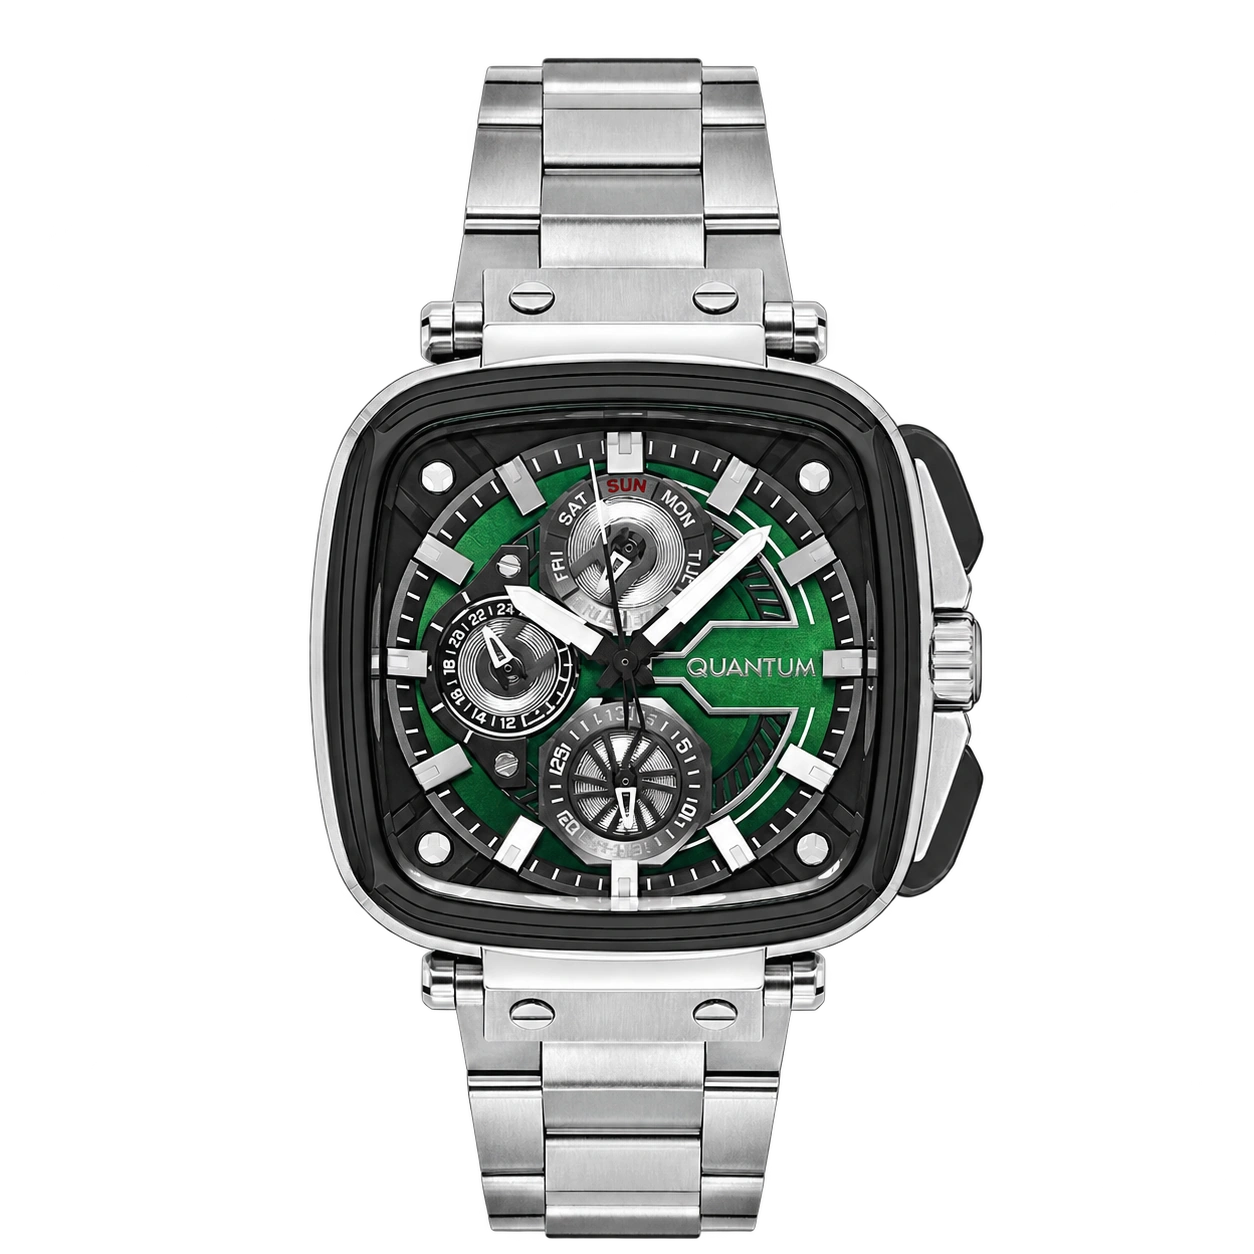
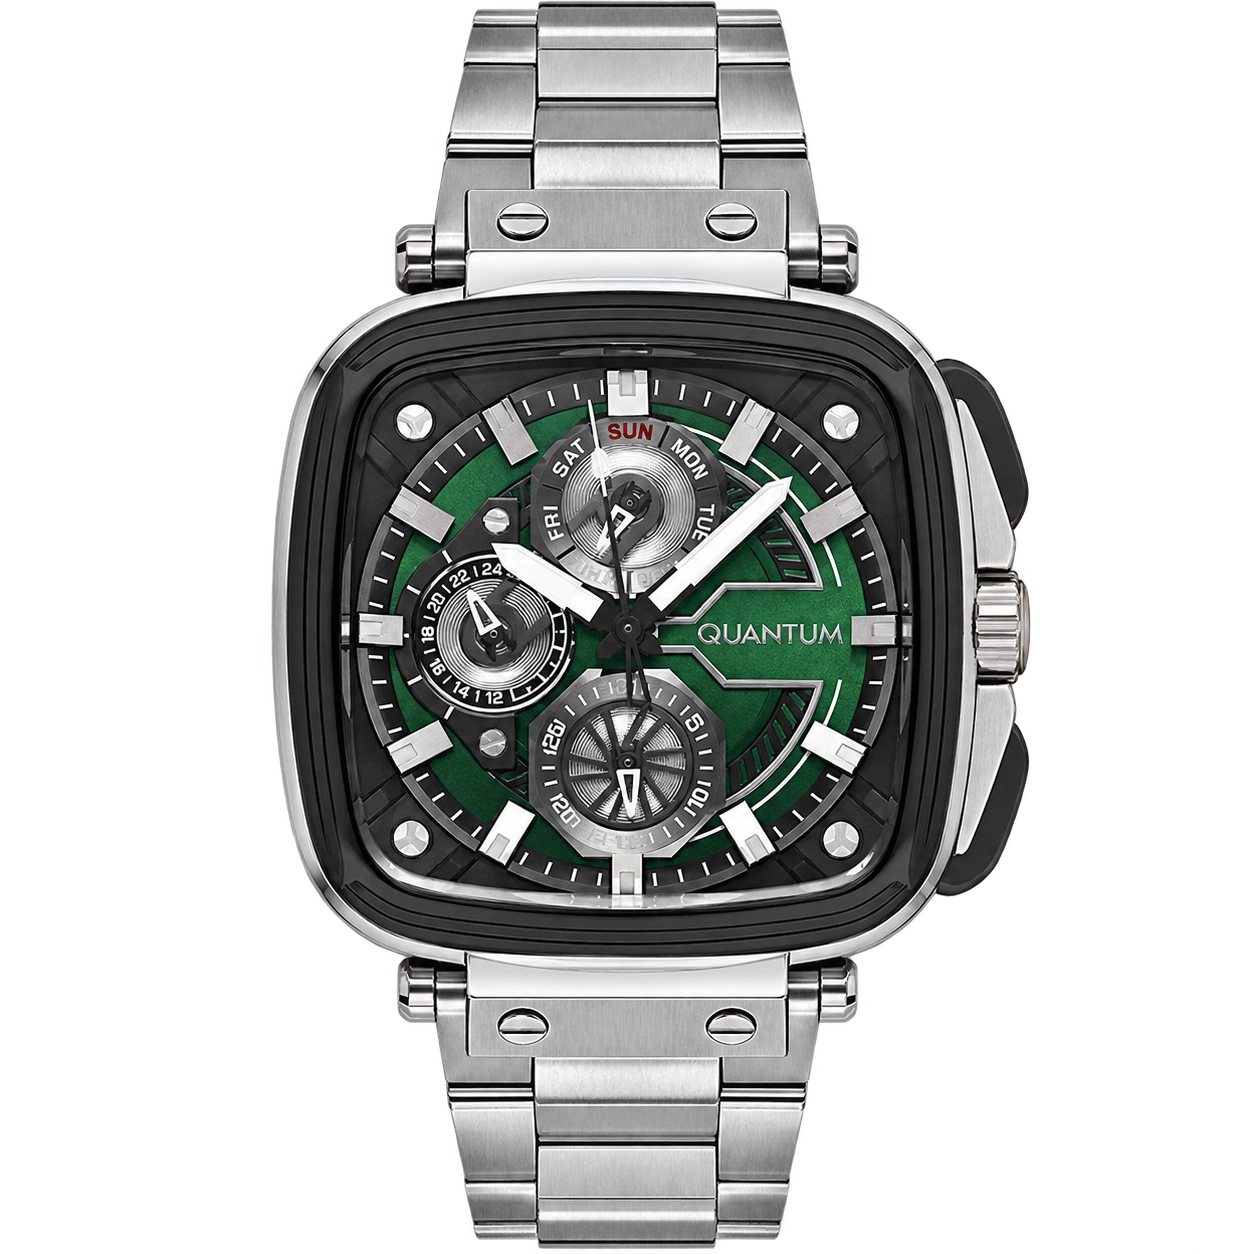
assets: replace PWG1092 photos using supplied reference images

diff --git a/public/photo-fit.js b/public/photo-fit.js
@@ -3,8 +3,8 @@
  const bounds={
   'pwg930-390.webp':{width:1254,height:1254,left:297,top:90,right:1011,bottom:1208},
   'pwg930-370.webp':{width:1122,height:1402,left:131,top:17,right:1001,bottom:1386},
-  'pwg1092-380.webp':{width:1254,height:1254,left:275,top:25,right:1023,bottom:1231,groupAspect:1181/673},
-  'pwg1092-370.webp':{width:1254,height:1254,left:310,top:58,right:983,bottom:1239,groupAspect:1181/673}
+  'pwg1092-380.webp':{width:1254,height:1254,left:249,top:13,right:1050,bottom:1245,groupAspect:1.646437994722955},
+  'pwg1092-370.webp':{width:1254,height:1254,left:272,top:1,right:1030,bottom:1249,groupAspect:1.646437994722955}
  };
  function placement(boxWidth,boxHeight,b){
   if(!boxWidth||!boxHeight)return null;
